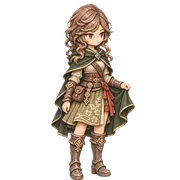
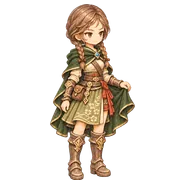
駒: 台座を作り直す（段の金属・前の銘板に得意な武器の絵・プレイヤーの色の帯）・狩人・女を三つ編みに
- 台座のふちの金属 = 今のジョブの段（基本 = 銅・中位 = 銀・最上位 = 金・特殊 = 紫の水晶。最上位と特殊は宝石）
- 前の盾の形の銘板に、得意な武器の絵（item/<武器のアイコン>）。駒の絵より手前に描く
- 描いた台座と銘板の枠の絵（ui/piece-base・piece-base-band・piece-plate-<段>）があれば使う。指示文は docs/art/prompts-chatgpt-pedestal.md
- 旅の姿の狩人・女を、目印の2本の三つ編みに作り直した絵に入れかえ
- precut_pieces.py: rembg で切り抜いた物を消さないように

Changed region(s): [[0.2778, 0.0, 0.75, 1.0]]

diff --git a/src/components/world/HeroPiece.tsx b/src/components/world/HeroPiece.tsx
@@ -1,5 +1,10 @@
 // ===== ワールドマップの駒（チェスの駒のようなミニチュア） =====
-// 丸い台座（上面も側面もプレイヤーの色・ふちは金）。台座の上に立つのは:
+// 丸い台座（2026-11-15 作り直し）:
+//   - 側面の帯 = プレイヤーの色。ふちの金属 = 今のジョブの段（基本 = 銅・中位 = 銀・最上位 = 金・特殊 = 紫の水晶）
+//   - 前に盾の形の銘板。中に、今のジョブの得意な武器の絵（item/<武器のアイコン>）。転職すると変わる
+//   - 描いた台座の絵（ui/piece-base と、帯の形 ui/piece-base-band）・銘板の枠の絵（ui/piece-plate-<段>）が
+//     あれば使い、無ければプログラムで描く
+// 台座の上に立つのは:
 //   - src/assets/art/piece/<基本職ID>-<male|female>.webp があれば、そのミニチュアの絵
 //     （駒は基本職の16人分だけ。転職しても、転職の元をたどった基本職の駒を使う。2026-11-14 オーナーの決定）
 //   - 無ければ、今の顔の絵をメダルにして立てる（仮の見た目）
@@ -7,7 +12,8 @@
 import { useId } from 'react';
 import { artImage, CharacterArt } from '../../art';
 import { CLASSES } from '../../data/classes';
-import type { Hero } from '../../types';
+import { WEAPON_TYPES } from '../../data/rules';
+import type { Hero, JobTier } from '../../types';
 
 /** 仮の見た目の顔のメダルの直径（駒の箱の大きさに対する割合） */
 export const MEDAL = 0.72;
@@ -25,6 +31,22 @@ export function baseClassId(classId: string): string {
 
 export function pieceImage(hero: Pick<Hero, 'classId' | 'gender'>) {
   return artImage(`piece/${baseClassId(hero.classId)}-${hero.gender}`);
+}
+
+/** 段ごとの金属の色（明るい・中・暗い） */
+export const TIER_METAL: Record<JobTier, { light: string; mid: string; dark: string }> = {
+  base: { light: '#f0b384', mid: '#b8703c', dark: '#5e3216' },
+  mid: { light: '#f4f7fb', mid: '#a9b4c2', dark: '#4c5664' },
+  top: { light: '#fff1b0', mid: '#d9a93c', dark: '#6e4a10' },
+  special: { light: '#ead2ff', mid: '#9a5ad6', dark: '#3e1866' },
+};
+
+/** 台座の見た目に使う、今のジョブの段と、得意な武器の絵 */
+export function pedestalLook(classId: string): { tier: JobTier; icon?: string } {
+  const c = CLASSES.tryGet(classId);
+  const tier = c?.tier ?? 'base';
+  const wt = c?.weaponType ? WEAPON_TYPES.tryGet(c.weaponType) : undefined;
+  return { tier, icon: wt?.icon ? artImage(`item/${wt.icon}`) : undefined };
 }
 
 interface Props {
@@ -49,6 +71,12 @@ export function HeroPiece({ hero, size: s, ringColor, active, hopping, stepKey, 
   const img = pieceImage(hero);
   const dur = `${Math.round(stepMs * 0.8)}ms`;
   const lift = hopping ? (simple ? 'piece-lift-simple' : 'piece-lift') : '';
+  const { tier, icon } = pedestalLook(hero.classId);
+  const metal = TIER_METAL[tier];
+  const baseArt = artImage('ui/piece-base');
+  const bandArt = artImage('ui/piece-base-band');
+  const plateArt = artImage(`ui/piece-plate-${tier}`);
+  const gems = tier === 'top' || tier === 'special';
   return (
     <>
       {/* 床の影（駒を持ち上げると小さく薄くなる。影は床に残る） */}
@@ -66,30 +94,51 @@ export function HeroPiece({ hero, size: s, ringColor, active, hopping, stepKey, 
         />
       )}
       <span key={`lf${stepKey}`} className={`absolute inset-0 block ${lift}`} style={{ animationDuration: dur }}>
-        {/* 台座: 金色の上面と、プレイヤーの色の側面の輪 */}
-        <svg className="absolute" style={{ left: s * 0.06, top: s * 0.62, width: s * 0.88, height: s * 0.36, overflow: 'visible' }} viewBox="0 0 100 40" aria-hidden>
-          <defs>
-            <linearGradient id={`top${uid}`} x1="0" y1="0" x2="0" y2="1">
-              <stop offset="0" stopColor="#fff" stopOpacity="0.55" />
-              <stop offset="0.5" stopColor="#fff" stopOpacity="0.05" />
-              <stop offset="1" stopColor="#000" stopOpacity="0.35" />
-            </linearGradient>
-            <linearGradient id={`side${uid}`} x1="0" y1="0" x2="1" y2="0">
-              <stop offset="0" stopColor="#000" stopOpacity="0.45" />
-              <stop offset="0.35" stopColor="#fff" stopOpacity="0.25" />
-              <stop offset="1" stopColor="#000" stopOpacity="0.5" />
-            </linearGradient>
-          </defs>
-          <ellipse cx="50" cy="27" rx="47" ry="12" fill={ringColor} stroke="#1a1208" strokeWidth="2" />
-          <rect x="3" y="14" width="94" height="13" fill={ringColor} />
-          <rect x="3" y="14" width="94" height="13" fill={`url(#side${uid})`} />
-          <line x1="3" y1="14" x2="3" y2="27" stroke="#1a1208" strokeWidth="2" />
-          <line x1="97" y1="14" x2="97" y2="27" stroke="#1a1208" strokeWidth="2" />
-          {/* 上面もプレイヤーの色（P1 青・P2 赤・P3 緑・P4 黄）。ふちは金 */}
-          <ellipse cx="50" cy="14" rx="47" ry="12" fill={ringColor} stroke="#d9a93c" strokeWidth="3" />
-          <ellipse cx="50" cy="14" rx="46" ry="11" fill={`url(#top${uid})`} />
-          <ellipse cx="50" cy="13" rx="34" ry="7.5" fill="none" stroke="#fff6cf" strokeOpacity="0.7" strokeWidth="1.5" />
-        </svg>
+        {/* 台座: 描いた絵があれば絵（側面の帯だけプレイヤーの色に染める）、無ければプログラムで描く */}
+        {baseArt ? (
+          <span className="absolute" style={{ left: s * 0.02, top: s * 0.6, width: s * 0.96, height: s * 0.4 }} data-piece-base={tier}>
+            <img src={baseArt} alt="" draggable={false} decoding="async" className="absolute inset-0 h-full w-full" />
+            {bandArt && (
+              <span
+                className="absolute inset-0"
+                style={{ background: ringColor, mixBlendMode: 'multiply', WebkitMaskImage: `url(${bandArt})`, maskImage: `url(${bandArt})`, WebkitMaskSize: '100% 100%', maskSize: '100% 100%' }}
+              />
+            )}
+          </span>
+        ) : (
+          <svg className="absolute" style={{ left: s * 0.06, top: s * 0.62, width: s * 0.88, height: s * 0.36, overflow: 'visible' }} viewBox="0 0 100 40" aria-hidden data-piece-base={tier}>
+            <defs>
+              <linearGradient id={`top${uid}`} x1="0" y1="0" x2="0" y2="1">
+                <stop offset="0" stopColor="#fff" stopOpacity="0.45" />
+                <stop offset="0.5" stopColor="#fff" stopOpacity="0.05" />
+                <stop offset="1" stopColor="#000" stopOpacity="0.35" />
+              </linearGradient>
+              <linearGradient id={`side${uid}`} x1="0" y1="0" x2="1" y2="0">
+                <stop offset="0" stopColor="#000" stopOpacity="0.45" />
+                <stop offset="0.35" stopColor="#fff" stopOpacity="0.25" />
+                <stop offset="1" stopColor="#000" stopOpacity="0.5" />
+              </linearGradient>
+              <linearGradient id={`metal${uid}`} x1="0" y1="0" x2="1" y2="0">
+                <stop offset="0" stopColor={metal.dark} />
+                <stop offset="0.4" stopColor={metal.light} />
+                <stop offset="1" stopColor={metal.dark} />
+              </linearGradient>
+            </defs>
+            {/* 側面: プレイヤーの色の帯（いちばん広く。人数が多い時の見分け）と、上のふち（段の金属） */}
+            <ellipse cx="50" cy="28" rx="47" ry="12" fill={ringColor} stroke="#1a1208" strokeWidth="2" />
+            <rect x="3" y="14" width="94" height="14" fill={`url(#metal${uid})`} />
+            <rect x="3" y="16" width="94" height="12" fill={ringColor} />
+            <rect x="3" y="16" width="94" height="12" fill={`url(#side${uid})`} />
+            <line x1="3" y1="14" x2="3" y2="28" stroke="#1a1208" strokeWidth="2" />
+            <line x1="97" y1="14" x2="97" y2="28" stroke="#1a1208" strokeWidth="2" />
+            {/* 上面: 濃い木の色（駒の絵が引き立つように）。ふちは段の金属 */}
+            <ellipse cx="50" cy="14" rx="47" ry="12" fill="#4a3220" stroke={metal.mid} strokeWidth="3" />
+            <ellipse cx="50" cy="14" rx="46" ry="11" fill={`url(#top${uid})`} />
+            <ellipse cx="50" cy="13" rx="34" ry="7.5" fill="none" stroke={metal.light} strokeOpacity="0.5" strokeWidth="1.2" />
+            {/* 最上位・特殊は、ふちに小さな宝石 */}
+            {gems && [18, 82].map((gx) => <circle key={gx} cx={gx} cy={21} r="2.6" fill={tier === 'special' ? '#e6b8ff' : '#ff6b6b'} stroke="#1a1208" strokeWidth="1" />)}
+          </svg>
+        )}
         {img ? (
           // ミニチュアの絵: 正方形（1.25s）。足の裏が絵の下端にあり、それを台座の上面の中ほど（0.78s）に置く。
           // 横に長い武器は箱の左右へ少しはみ出す（体の大きさをそろえるため）。加工は scripts/art/build_art.py の build_pieces
@@ -116,6 +165,27 @@ export function HeroPiece({ hero, size: s, ringColor, active, hopping, stepKey, 
             </span>
           </>
         )}
+      </span>
+      {/* 台座の前の銘板（駒の絵より手前に描く）。台座といっしょに持ち上がる */}
+      <span key={`pl${stepKey}`} className={`pointer-events-none absolute inset-0 block ${lift}`} style={{ animationDuration: dur }}>
+        <svg className="absolute" style={{ left: s * 0.39, top: s * 0.71, width: s * 0.22, height: s * 0.26, overflow: 'visible' }} viewBox="0 0 22 26" aria-hidden data-piece-plate={tier}>
+          {plateArt ? (
+            <image href={plateArt} x="-1" y="-1" width="24" height="28" preserveAspectRatio="xMidYMid meet" />
+          ) : (
+            <>
+              <defs>
+                <linearGradient id={`plate${uid}`} x1="0" y1="0" x2="1" y2="1">
+                  <stop offset="0" stopColor={metal.light} />
+                  <stop offset="0.5" stopColor={metal.mid} />
+                  <stop offset="1" stopColor={metal.dark} />
+                </linearGradient>
+              </defs>
+              <path d="M1 1 H21 V11 Q21 20 11 25 Q1 20 1 11 Z" fill={`url(#plate${uid})`} stroke="#1a1208" strokeWidth="1.2" strokeLinejoin="round" />
+              <path d="M4 4 H18 V11 Q18 17.5 11 21.5 Q4 17.5 4 11 Z" fill="#1d2440" />
+            </>
+          )}
+          {icon && <image href={icon} x="4" y="3.5" width="14" height="14" preserveAspectRatio="xMidYMid meet" />}
+        </svg>
       </span>
       {/* カツンと置いた時の小さな土ぼこり */}
       {hopping && !simple && (

diff --git a/src/components/world/heroPieceBase.test.ts b/src/components/world/heroPieceBase.test.ts
@@ -1,6 +1,6 @@
 import { describe, expect, it } from 'vitest';
 import { CLASSES } from '../../data/classes';
-import { baseClassId } from './HeroPiece';
+import { baseClassId, pedestalLook } from './HeroPiece';
 
 const BASE = ['warrior', 'guardian', 'hunter', 'mage', 'monk', 'thief', 'priest', 'summoner'];
 
@@ -12,5 +12,19 @@ describe('駒は基本職の絵を使う', () => {
     expect(baseClassId('swordSaint')).toBe('warrior');
     expect(baseClassId('greatSage')).toBe('mage');
     expect(baseClassId('warrior')).toBe('warrior');
+  });
+});
+
+describe('台座: 今のジョブの段と、得意な武器の絵', () => {
+  it('どのジョブも段が決まり、武器の種類があるジョブは銘板の絵がある', () => {
+    for (const c of CLASSES.all) {
+      const look = pedestalLook(c.id);
+      expect(['base', 'mid', 'top', 'special']).toContain(look.tier);
+      if (c.weaponType) expect(look.icon).toBeTruthy();
+    }
+  });
+  it('例: 剣士 = 基本、剣聖 = 最上位', () => {
+    expect(pedestalLook('warrior').tier).toBe('base');
+    expect(pedestalLook('swordSaint').tier).toBe('top');
   });
 });

diff --git a/scripts/art/precut_pieces.py b/scripts/art/precut_pieces.py
@@ -55,10 +55,8 @@ for f in sorted(glob.glob(os.path.join(SRC, 'piece', '*.png'))):
                 out |= m
         alpha = soften(np.where(out, 0, 255).astype(np.uint8))
     if kind is None:
+        # 前に rembg で切り抜いた物が置き場にあれば、それを使い続ける（元の絵を入れかえた時は、置き場の絵を手で消す）
         print(f'{name:18s} 背景が分からない → rembg に任せる')
-        p = os.path.join(OUT, f'{name}.png')
-        if os.path.exists(p):
-            os.remove(p)
         continue
     Image.fromarray(np.dstack([rgba[..., :3], alpha]), 'RGBA').save(os.path.join(OUT, f'{name}.png'))
     print(f'{name:18s} {kind:12s} 残した割合 {(alpha > 128).mean():.3f}')

diff --git a/docs/art/prompts-chatgpt-pedestal.md b/docs/art/prompts-chatgpt-pedestal.md
@@ -1,0 +1,51 @@
+# 駒の台座と銘板の絵の指示文（ChatGPT・2026-11-15）
+
+- オーナーの決定（2026-11-15）: 台座をしっかり作る。3つの部分に分ける（台座の本体の絵・前の銘板・段が上がるほど豪華に）。銘板の中は、今のジョブの得意な武器の絵（今ある武器のアイコン）。
+- プログラムは先に入れた（`src/components/world/HeroPiece.tsx`）。絵が無い間は、プログラムで描いた台座と銘板が出る。
+  - 段の金属: 基本 = 銅・中位 = 銀・最上位 = 金・特殊 = 紫の水晶。最上位と特殊は、ふちに小さな宝石。
+  - 側面の帯 = プレイヤーの色。
+- 絵が届いたら:
+  - 台座 → `src/assets/art/ui/piece-base.webp`。側面の明るい灰色の帯だけを取り出した形の絵 → `ui/piece-base-band.webp`（Claude が作る。ゲームがここをプレイヤーの色に染める）。
+  - 銘板の枠4つ → `ui/piece-plate-base|mid|top|special.webp`（内側の紺色の所に、武器の絵をゲームが重ねる）。
+- 添付する絵: 今の駒（旅の姿の剣士・男）`駒-剣士・男-旅の姿.png`。新しいチャットで、1枚ずつ頼む。
+
+## 1. 台座の本体 保存の名前 `piece-base.png`
+```
+ボードゲームの盤に置く「立体のミニチュアの駒」の、丸い台座だけの絵を1枚作ってください。添付の絵（この台座の上に立つ駒）と同じ、手描きの線とくすんだ水彩のような塗りにそろえてください。
+
+【形】
+・丸い円盤の台座。斜め上から少し見下ろす角度（上の面が横長のだ円に見える。横:縦 = 4:1 くらい）
+・厚みは、だ円の横幅の8分の1くらい。側面がしっかり見える
+・上の面: 深い焦げ茶の木。木目がうっすら。真ん中には何も置かない（あとで駒を立てます）
+・上の面のふち: 細い真ちゅう色（くすんだ金）の金属の輪
+・側面: 上と下に細い真ちゅう色のふち。その間は「明るい灰色の無地の帯」（模様なし。左右の端が少し暗くなる程度の陰影だけ）。この帯は、あとでゲームがプレイヤーの色に塗ります
+・正面から見て左右対称
+
+【見せ方】
+・台座だけ。人・駒・草・地面・床の影は描かない
+・背景は透明（PNG）。透明にできなければ、真っ白の無地。市松模様は描かない
+・横長（1536×1024）。台座は真ん中に、横幅いっぱい近くまで大きく
+・描かないもの: 文字・サイン・枠・宝石・帯の模様
+
+返事は絵だけで大丈夫です。
+```
+
+## 2. 銘板の枠（4つ） 保存の名前 `piece-plates.png`
+```
+ボードゲームのミニチュアの駒の台座の前に付ける、小さな「盾の形の銘板」の絵を作ってください。添付の絵（この駒の台座に付けます）と同じ、手描きの線とくすんだ水彩のような塗りにそろえてください。
+
+【中身】
+・同じ形・同じ大きさの盾形の銘板を4つ、横2つ×縦2段に、十分に離して並べる
+・形: 上が平らで下がとがった、小さな紋章の盾。正面から見た形。ふちが少し盛り上がった金属の枠
+・4つの違いは、枠の金属の色だけ
+  上の段（左から）1. 銅（赤みのある茶色の金属） 2. 銀（青みのある白い金属）
+  下の段（左から）3. 金（明るい黄金） 4. 紫の水晶（紫の宝石を削って作った枠。ふちに小さな光）
+・枠の内側は、4つとも同じ「深い紺色の無地」。内側には何も描かない（あとでゲームが武器の絵を入れます）
+
+【見せ方】
+・背景は透明（PNG）。透明にできなければ、真っ白の無地。市松模様は描かない
+・正方形（1024×1024）
+・描かないもの: 文字・数字・武器・紋章の絵・リボン・影・サイン・枠
+
+返事は絵だけで大丈夫です。
+```
